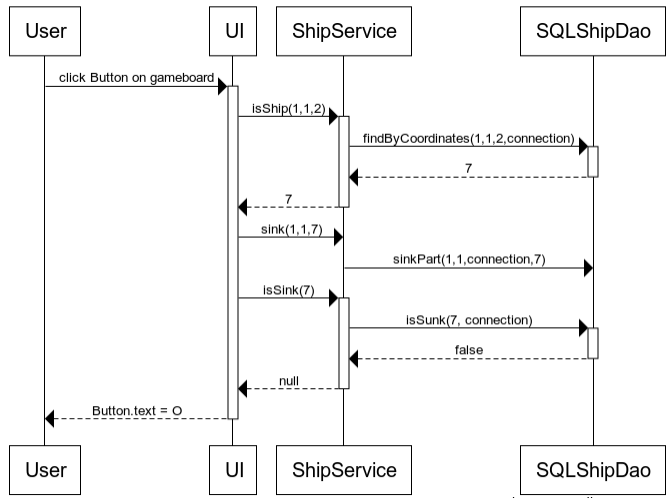
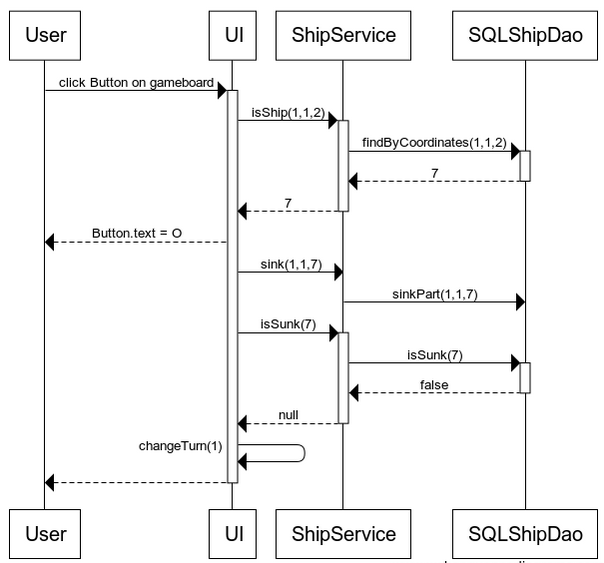
Dokumentaation kuvat

Changed region(s): [[0.0, 0.0, 1.0, 1.0]]

diff --git a/Battleships/src/test/java/battleships/domain/ShipServiceTest.java b/Battleships/src/test/java/battleships/domain/ShipServiceTest.java
@@ -57,7 +57,7 @@ public class ShipServiceTest {
         
         ser.sink(1, 1, 1);
         
-        assertEquals("battleship", ser.isSink(1));
+        assertEquals("battleship", ser.isSunk(1));
     }
     
     @Test
@@ -65,7 +65,7 @@ public class ShipServiceTest {
         shipDao.create(ship);
         shipDao.addCoordinates(ship, 1, 1);
         
-        assertEquals(null, ser.isSink(1));
+        assertEquals(null, ser.isSunk(1));
     }
     
     @Test
